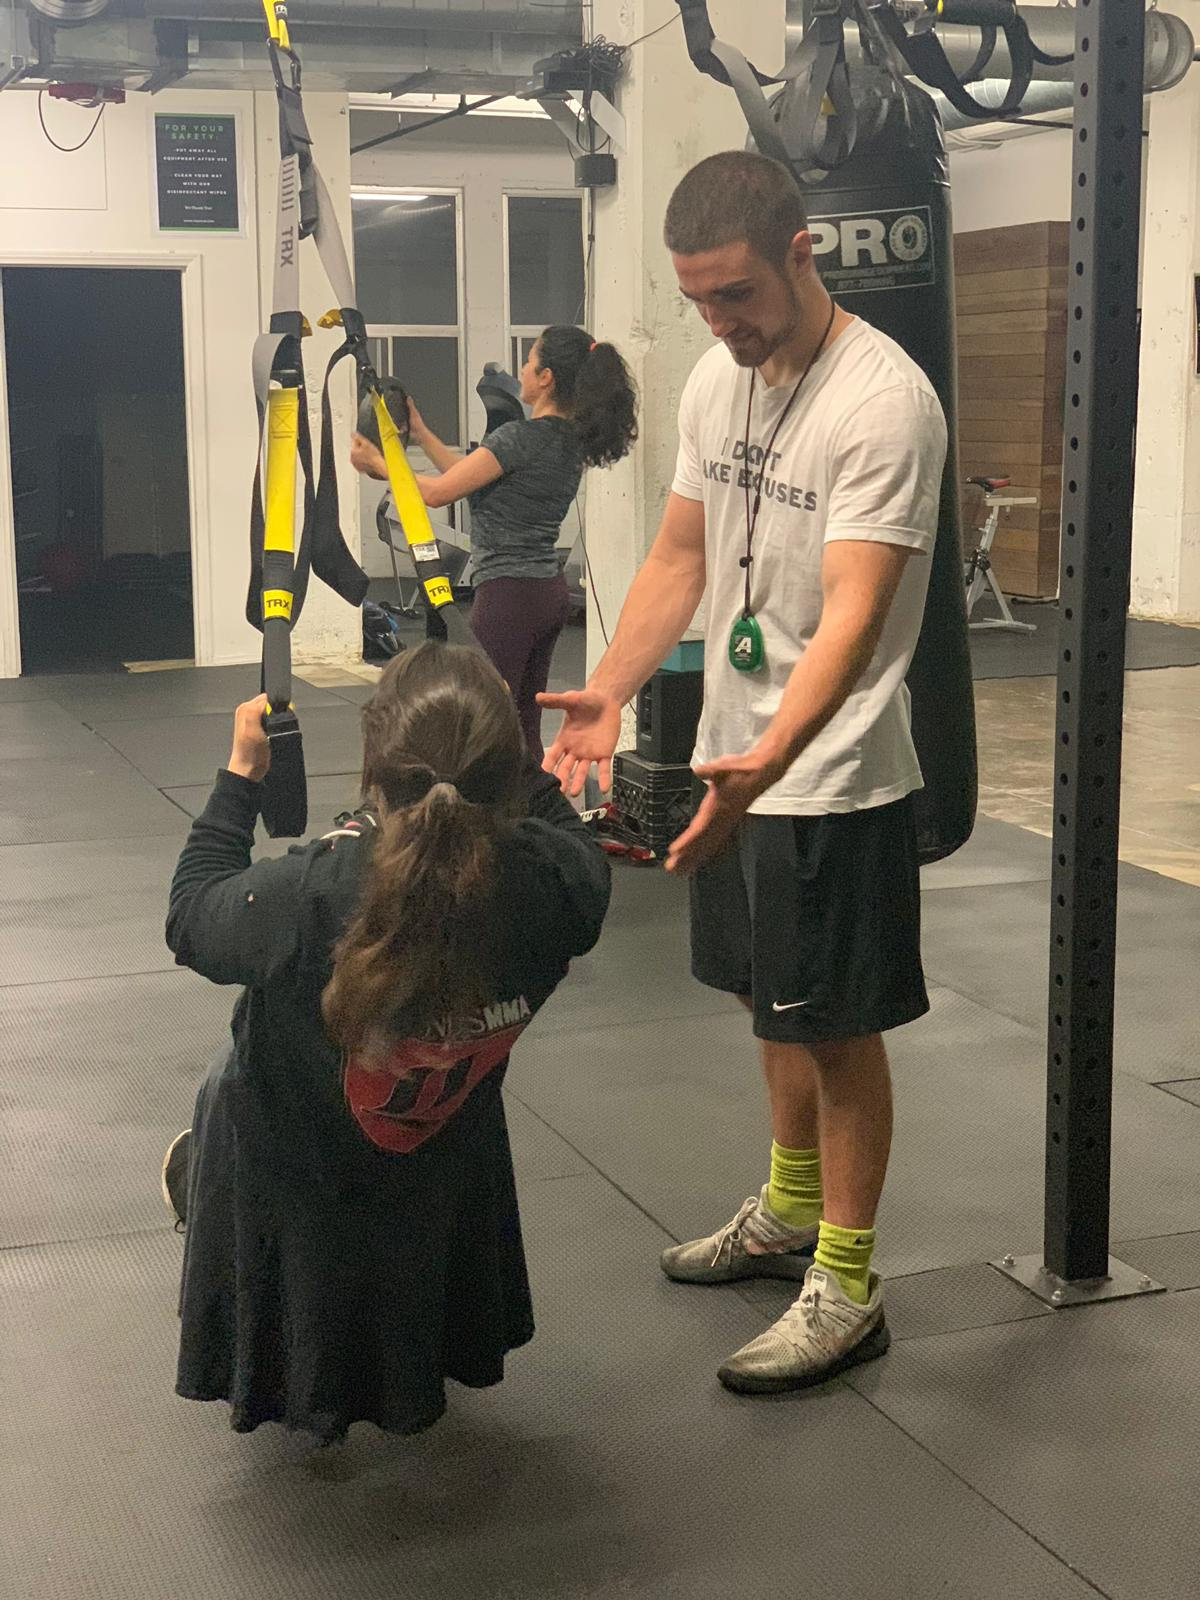
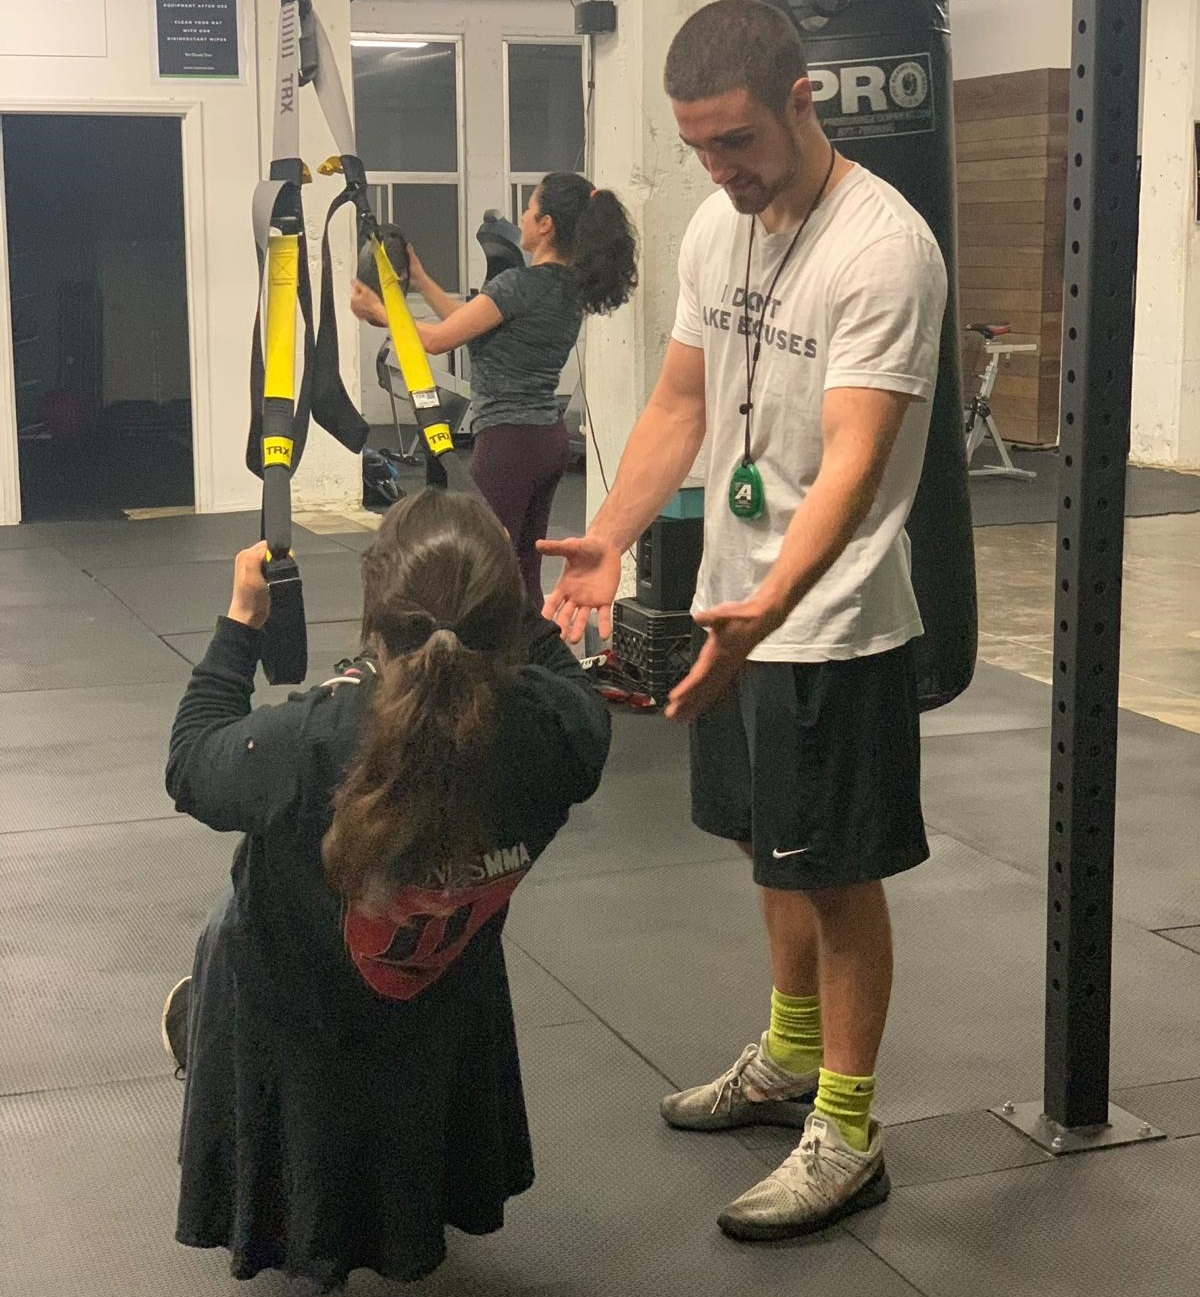
resized images; updated css

diff --git a/index.html b/index.html
@@ -28,19 +28,22 @@
     </nav>
     <main role="main" aria-live="assertive">
       <section id="about" class="about-me">
-        <h2>About Me</h2>
-        <p>
-          My name is Anthony Simone. I am very passionate about boxing and fitness. 
-          I have a degree in Exercise Science and I am a NASM Certified Trainer. 
-          I started boxing back in my home town of Phoenix, Arizona and now I fight 
-          out of Hollywood, California. I enjoy being a personal trainer helping people 
-          reach their goals whether it is losing weight, getting comfortable with a work 
-          out routine, learning to box or just staying in shape. I have the expertise to help.
-        </p>
-        <img src="./img/profile.jpg" alt="Anthony Simone with Boxing Trophy" />
+        <div class="overflow-wrap">
+            <h2>About Me</h2>
+            <p>
+              My name is Anthony Simone. I am very passionate about boxing and fitness. 
+              I have a degree in Exercise Science and I am a NASM Certified Trainer. 
+              I started boxing back in my home town of Phoenix, Arizona and now I fight 
+              out of Hollywood, California. I enjoy being a personal trainer helping people 
+              reach their goals whether it is losing weight, getting comfortable with a work 
+              out routine, learning to box or just staying in shape. I have the expertise to help.
+            </p>
+            <img src="./img/profile.jpg" alt="Anthony Simone in the ring" />
+        </div>
       </section>
       <section id="reviews" class="reviews">
         <h2>Client Reviews</h2>
+        <br>
         <div class="quote">
           <blockquote><br>
             Anthony, thank you for helping me lose weight. 
@@ -49,16 +52,16 @@
           </blockquote>
           <p class="client-name">-<i>Stew M.</i></p>
         </div>
-        <img src="./img/training1.jpg" alt="Training" />
+        <img src="./img/training1.jpg" alt="training session" />
         
-        <div class="quote right">
+        <div class="quote">
           <blockquote><br>
             Thank you for teaching me how to box! 
             It has really helped me gain my confidence back!
           </blockquote>
           <p class="client-name">-<i>Shyla G.</i></p>
         </div>
-        <img src="./img/boxing.png" alt="Boxing" class="boxing" />
+        <img src="./img/boxing.png" alt="boxing match" />
 
         <div class="quote">
           <blockquote><br>
@@ -66,7 +69,7 @@
           </blockquote>
           <p class="client-name">-<i>Cindy F.</i></p>
         </div>
-        <img src="./img/training2.jpg" alt="Training" class="bottom"/>
+        <img src="./img/training2.jpg" alt="training session" />
         
       </section>
       <section id="contact" class="contact-info">

diff --git a/main.css b/main.css
@@ -9,10 +9,6 @@ nav {
   padding: 10px;
 }
 
-nav a {
-  font-family: 'Roboto', sans-serif;
-}
-
 nav h1 {
   color: #FFBDBD;
   text-align: center;
@@ -21,23 +17,11 @@ nav h1 {
   margin-top: 10px;
   margin-bottom: 10px;
   font-family: 'Roboto', sans-serif;
-  font-size: 26px;
-}
-
-nav p {
-  color: #FFBDBD;
-  text-align: center;
-  max-width: 90%;
-  margin: 0 auto;
-  margin-top: 10px;
-  margin-bottom: 5px;
-  font-family: 'Roboto', sans-serif;
-  font-size: 18px;
+  font-size: 28px;
 }
 
 nav ul {
   padding: 0;
-  margin: 0 auto;
   margin-bottom: 5px;
   margin-top: 5px;
   text-align: center;
@@ -47,15 +31,13 @@ nav li {
   display: inline;
   padding-left: 5px;
   padding-right: 5px;
-  margin: 0 auto;
 }
 
 nav a {
-  border: none;
-  font-size: 12px;
+  font-size: 14px;
   background: none;
   color: black;
-  text-decoration: underline;
+  text-decoration: underline bold;
   outline: none;
 }
 
@@ -69,6 +51,7 @@ nav a:focus {
 main {
   text-align: center;
   font-family: 'Roboto Slab', serif;
+  margin-top: 120px;
 }
 
 main p {
@@ -81,6 +64,14 @@ main img {
   border: #771111 3px solid;
   max-width: 90%;
   margin: 0 auto;
+}
+
+/*For offsetting anchor targets*/
+section:before {
+  content:"";
+  display:block;
+  height:120px; /* fixed header height*/
+  margin-top:-120px; /* negative fixed header height */
 }
 
 body {
@@ -96,11 +87,9 @@ h2 {
 section {
   text-align: justify;
   width: 100%;
-  margin-top: 50px;
-  margin-bottom: 50px;
   border-bottom: 2px dashed #771111;
-  padding-top: 100px;
-  padding-bottom: 100px;
+  margin-top: 50px;
+  padding-bottom: 50px;
 }
 
 section ul {
@@ -176,48 +165,42 @@ blockquote::after {
 
   main {
     margin: 0 auto;
-    margin-bottom: 25px;
     max-width: 80%;
     display: block;
     position: relative;
-    text-align: left;
+    margin-top: 120px;
   }
   
   main p {
     display: inline-block;
     vertical-align: top;
-    max-width: 40%;
+    max-width: 30%;
     font-size: 18px;
     margin-right: 5%;
+    text-align: left;
   }
   
   main img {
-    display: inline-block;
+    float: right;
     vertical-align: top;
     margin: 30px;
     margin-top: 10px;
-    max-width: 45%;
+    max-width: 50%;
+  }
+
+  .overflow-wrap {
+    overflow: auto;
   }
 
   .reviews img {
-    max-width: 35%;
-  }
-  
-  .reviews img.boxing {
-    max-width: 50%;
-  }
-  
-  .reviews img.bottom {
-    max-width: 45%;
+    max-width: 40%;
+    max-height: 325px;
+    float: right;
+    margin: 0;
   }
 
   .quote {
     max-width: 45%;
-  }
-
-  .right {
-    margin-left: 10px;
-    max-width: 35%;
   }
 
   blockquote {

diff --git a/grid-details.css b/grid-details.css
@@ -1,0 +1,40 @@
+* {
+  box-sizing: border-box;
+}
+
+.row {
+  max-width: 1000px;
+  padding-left: 20px;
+  padding-right: 20px;
+  margin: 0 auto;
+}
+
+/* Clearfix */
+.row::before,
+.row::after {
+  display: table;
+  content: '';
+}
+
+.row::after {
+  clear: both;
+}
+
+.col-3, .col-6 {
+  float: left;
+  padding-left: 1.04166666%;
+  padding-right: 1.04166666%;
+}
+
+/* Mobile defaults */
+.col-3, .col-6 {
+  width: 100%;
+}
+
+
+/* Tablet, laptop, or desktop */
+@media only screen and (min-width: 640px) {
+  .col-6 {
+    width: 50%;
+  }
+}
